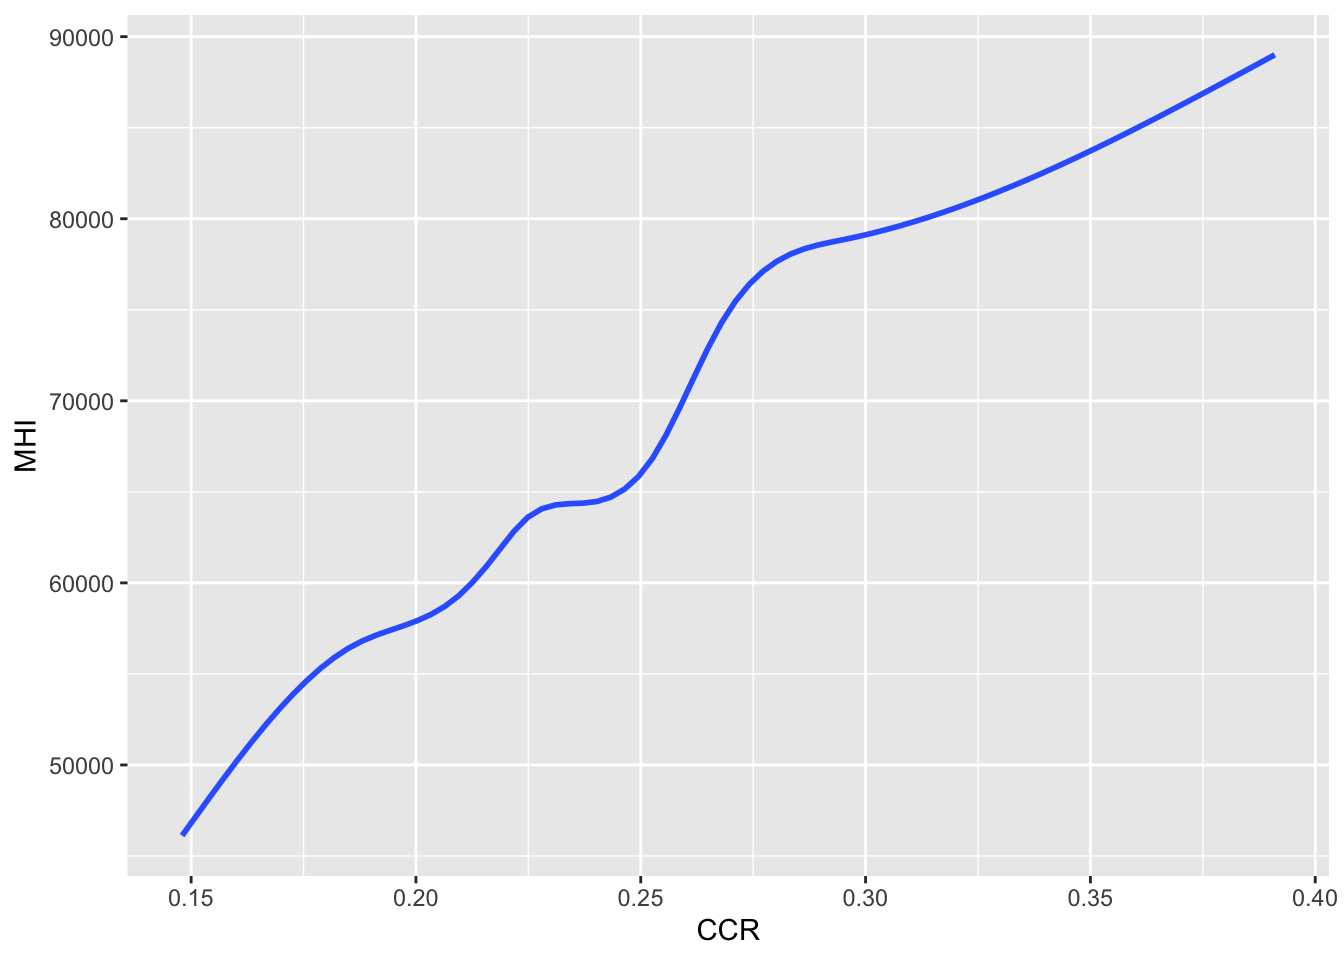
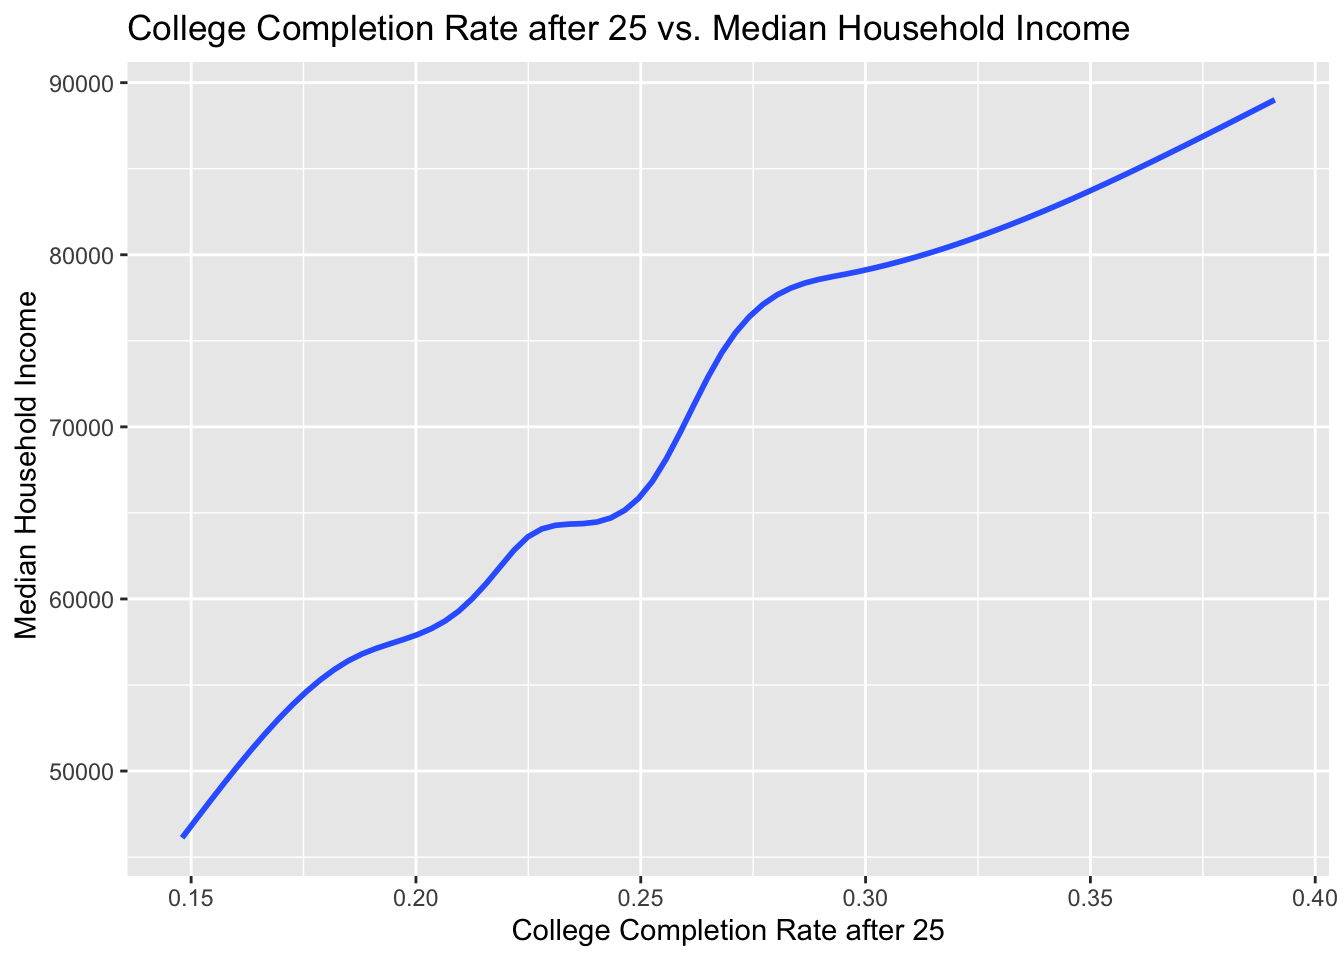
Dec19

diff --git a/content/big_picture.html b/content/big_picture.html
@@ -23,20 +23,24 @@ draft: false
 ## ✖ dplyr::filter() masks stats::filter()
 ## ✖ dplyr::lag()    masks stats::lag()</code></pre>
 <pre><code>## [1] &quot;/Users/sarazheng/Desktop/MA415/ma4615-fa22-final-project-ma415_4444/content&quot;</code></pre>
-<pre><code>## [1] &quot;clean_wage&quot; &quot;state_data&quot;</code></pre>
+<pre><code>## [1] &quot;average_wage_educ&quot; &quot;clean_wage&quot;        &quot;state_data&quot;</code></pre>
 <div id="why-do-we-have-to-receive-education" class="section level2">
 <h2>Why do we have to receive education?</h2>
 <p>On October 11, the Royal Swedish Academy of Sciences announced the three winners of the 2021 Nobel Prize in Economics. Perhaps we all once thought that the Nobel Prize was far away from our life, but this year’s Nobel laureates in the field of labor economics used empirical methods in their research to prove many major theories. For example, the more you study, the more money you make.</p>
 <p>I’m sure most parents have said to their children, “You have to study hard, learn more, and grow more, so that when you grow up you can find a good job and earn a lot of money.”</p>
 <div id="q-is-that-really-the-case-specifically-could-higher-degrees-of-education-help-us-to-get-a-better-job-and-earn-more-money" class="section level3">
 <h3>Q: Is that really the case? Specifically, could higher degrees of education help us to get a better job and earn more money?</h3>
+<pre><code>## `geom_smooth()` using method = &#39;gam&#39; and formula &#39;y ~ s(x, bs = &quot;cs&quot;)&#39;</code></pre>
 <p><img src="/big_picture_files/figure-html/q1-1.png" width="672" /></p>
-<p>Overall, it is true that the more education you get, the more money you can make. The above plot is a box plot, indicating how much you can make with certain years of education. The fat box-shape parts of the graph represent the majority of the people (75%), so we will look into only the range of the box-shape parts. We can see that across all years of education, wages start from 0. However, the upper limits of each boxplot show some trends. From “no schooling”(0) to “Grade 10”(4), the upper limits keep decreasing, from about 15,000 to almost 0, which is very interesting because does that mean we should not go to school at all if we will stop schooling at Grade 10. Then starting from “Grade 10”, the upper limits of the boxes keep increasing until 5+ years of college (11), from about 0 all the way to more than 60,000. Surprisingly, there is a huge gap between Grade 11 (5) to Grade 12 (6), from about 0 to almost 30,000. It might be suggesting that a high school degree is important to make money, and a college degree could help even more with making money.</p>
+<p>Above is the graph that illustrates the relationship between states’ college completion rate and states’ median household income. For example, CCR = 0.4 means this state has a 40% college graduation rate for people after age 25. To be generalized, this graph can show the relationship between the income and education level: the CCR increases, MHI increases.</p>
+<p>It seems like higher education can have higher wage according to this graph predicts. It is true that college is a barrier to entry for many companies, and having a degree is definitely better than not having one. But the employment activities to be carried out by the university are often services that require a little networking, and it is rare to hear of a college student going into a factory as an assembly line worker, which is certainly not a common phenomenon. in a scenario where the structure of the market is gradually becoming problematic or distorted. Human relations in the service industry can be tasteless as well. There are simple multiple-choice games, or information transparency has devolved into a kind of opaque black box operation. or appears to be fair but, in reality, is not. In such circumstances, a service industry involving the human body may become extremely difficult to enter, which is one of the reasons for the current phenomenon of increasingly high financial thresholds in large cities. For example, the household registration system and so on are obviously contrary to the development of the modern service industry, but why will it become increasingly strong? I am afraid that the logic in the middle of this needs to be carefully sorted out. That is, under the current conditions, the university is probably able to ensure a subsistence level. But there does not seem to be a causal relationship with high incomes. Therefore, we might need further research to see whether there are any other variables that can influence the wage.</p>
 </div>
 <div id="q-does-gender-have-an-influence-on-the-wage-although-the-education-level-is-the-same" class="section level3">
 <h3>Q: Does gender have an influence on the wage although the education level is the same?</h3>
 <p><img src="/big_picture_files/figure-html/q2-1.png" width="672" /></p>
-<p>Sadly, women make less money than men with the same years of education in general. The above is a box plot. If we look at the upper limit of each box plot again, we can see that the difference between the wage of men and that of women is extremely large. There is about a 15,000 gap in each year of college, indicating that a woman makes $15,000 less than a man even with the same degree of education. The gap only seems less large with 5+ years of college (11), which means women need to study way harder to fight for the same amount of resources and money against men.</p>
+<p>The above is a bar chart to show the relationship between the education level and the mean wage of each state by the factor of male and female. For our x-axis is the education level, the lower the number of x-axis, the lower the education level. For the factor in gender, we set “1” as male, and “2” as female.</p>
+<p>Sadly, women make less money than men with the same years of education in general. The maximum medium wage gap of male and female is almost 10000 dollor in the education level of “8” which means after both finishing the 2 years of college, male can get higher wage than female. Of course some may question how even in one educational context, which may have been completed at different schools, this may lead to wage differences at the same level of education. This is a very good question, but there is a lack of data collection on the market on this issue, and we would be happy to collect data in a future study if necessary.
+But for now, in a broad analysis, we retain that gender differences have an impact on wages.</p>
 </div>
 <div id="q-despite-being-educated-how-much-age-can-influence-wages." class="section level3">
 <h3>Q: Despite being educated, how much AGE can influence wages.</h3>
